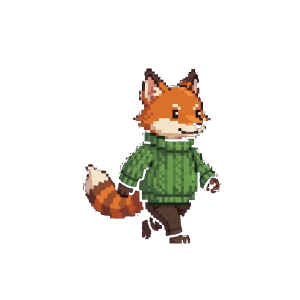
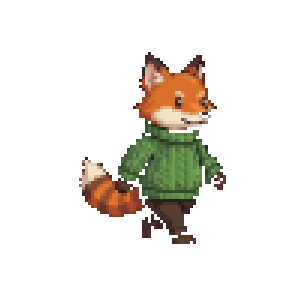
Fix fox walk cycle: match idle's size/detail + kill first-play flicker
The walk frames read smaller and blurrier than idle.png (union-bbox
height match undersold the lean walking pose, and plain box-average
resampling smeared the source video's pixel art), and the first cycle
flickered because each gait frame's Image source swap forced an async
decode.

- Regenerate walk_0..9.png on a crisp art grid: alpha-weighted box
  average down to 66 art px with a hard >=45% alpha snap, then integer
  x3 nearest upscale. Fox now stands 198px tall (matching idle's visual
  mass, ~9% up from the old bbox match) with hard pixel edges that keep
  the sweater knit, tail rings, and face detail. Frames also shrink
  ~4x on disk (opaque snapped alpha compresses well).
- AnimalSprite: pre-mount all walk frames as an opacity-switched stack
  (idle layered beneath) instead of swapping one Image's source per
  frame, so every frame is decoded before the first stroll. The stack
  is skipped entirely when the walk can never play (robed phases,
  reduced motion, low-tier devices). Layers use explicit 100% sizing,
  never inset-only (Fabric collapses inset-sized Images to intrinsic
  size).
- CLAUDE.md: document the crisp-resample pipeline and the pre-mounted
  stack rule.

Claude-Session: https://claude.ai/code/session_01W5bk4HFqQtbrE3HweUntwD

Changed region(s): [[0.27, 0.18, 0.75, 0.84]]

diff --git a/mobile/src/components/home/AnimalSprite.tsx b/mobile/src/components/home/AnimalSprite.tsx
@@ -692,40 +692,62 @@ export const AnimalSprite: React.FC<AnimalSpriteProps> = ({
           {/* Animal body */}
           {CHARACTER_SPRITES[animal.type] && !spriteLoadFailed ? (
             (() => {
-              const spriteSource =
-                currentPhase >= 4 && CHARACTER_SPRITES[animal.type]?.robed
-                  ? CHARACTER_SPRITES[animal.type]!.robed!
-                  : walkActive && walkFrames
-                    ? walkFrames[walkFrame % walkFrames.length]
-                    : CHARACTER_SPRITES[animal.type]!.idle;
+              const sprites = CHARACTER_SPRITES[animal.type]!;
+              const staticSource =
+                currentPhase >= 4 && sprites.robed ? sprites.robed : sprites.idle;
               const dreadTint = getSpriteDreadTint(currentPhase);
-              // Base sprite renders with its explicit size (the known-good path).
-              const baseSprite = (
-                <Image
-                  source={spriteSource}
-                  style={styles.spriteImage}
-                  resizeMode="contain"
-                  onError={() => setSpriteLoadFailed(true)}
-                />
+              // Walk frames stay MOUNTED (opacity-switched) whenever they
+              // could play — swapping one Image's `source` mid-gait forces an
+              // async decode per frame the first time through the cycle,
+              // which reads as flicker. Mounting decodes everything up front.
+              // Skipped when the walk can never run (robed phases, reduced
+              // motion, low-tier devices) so those paths pay no decode cost.
+              const mountWalkStack = Boolean(
+                walkFrames &&
+                walkFrames.length > 0 &&
+                currentPhase < 4 &&
+                !getSettingsSync().reducedMotion &&
+                !shouldSimplifyAnimations()
               );
-              // Phases 0 and 4+ have no dread wash — render the bare sprite,
-              // exactly as before the dread-ramp refactor.
-              if (!dreadTint) return baseSprite;
-              // Phases 1-3: layer a tinted copy on top (tintColor honours the
-              // sprite's alpha, so only the animal shape cools, not the box).
-              return (
-                <View style={styles.spriteImage}>
-                  {baseSprite}
+              // Phases 1-3 layer a tinted copy on top of each layer (tintColor
+              // honours the sprite's alpha, so only the animal shape cools).
+              const renderTint = (source: ImageSourcePropType) =>
+                dreadTint ? (
                   <Image
-                    source={spriteSource}
+                    source={source}
                     style={[
-                      StyleSheet.absoluteFill,
+                      styles.spriteLayer,
                       { tintColor: dreadTint.color, opacity: dreadTint.opacity },
                     ]}
                     resizeMode="contain"
                     importantForAccessibility="no"
                     accessibilityElementsHidden
                   />
+                ) : null;
+              return (
+                <View style={styles.spriteImage}>
+                  {/* Idle/robed base — hidden (not unmounted) while walking */}
+                  <View style={[styles.spriteLayer, { opacity: walkActive ? 0 : 1 }]}>
+                    <Image
+                      source={staticSource}
+                      style={styles.spriteFill}
+                      resizeMode="contain"
+                      onError={() => setSpriteLoadFailed(true)}
+                    />
+                    {renderTint(staticSource)}
+                  </View>
+                  {mountWalkStack && walkFrames!.map((frameSource, idx) => (
+                    <View
+                      key={idx}
+                      style={[
+                        styles.spriteLayer,
+                        { opacity: walkActive && idx === walkFrame % walkFrames!.length ? 1 : 0 },
+                      ]}
+                    >
+                      <Image source={frameSource} style={styles.spriteFill} resizeMode="contain" />
+                      {renderTint(frameSource)}
+                    </View>
+                  ))}
                 </View>
               );
             })()
@@ -841,6 +863,19 @@ const styles = StyleSheet.create({
   spriteImage: {
     width: 90,
     height: 90,
+  },
+  // Stacked sprite layers: absolute + EXPLICIT '100%' size (never inset-only —
+  // on Fabric an Image sized only by insets collapses to its intrinsic size).
+  spriteLayer: {
+    position: 'absolute',
+    top: 0,
+    left: 0,
+    width: '100%',
+    height: '100%',
+  },
+  spriteFill: {
+    width: '100%',
+    height: '100%',
   },
   notificationBadge: {
     position: 'absolute',

diff --git a/CLAUDE.md b/CLAUDE.md
@@ -578,7 +578,7 @@ Client-side sync layer with a pluggable `CloudProvider` interface. A live Supaba
 ### Current State
 - **Store assets are real**: 1024×1024 icon.png, adaptive-icon.png, splash.png, and the Android notification-icon.png are generated by `scripts/tools/generateAppIcons.mjs` / `generateNotificationIcon.mjs` (`npm run generate:assets`)
 - **SFX pack**: 14 WAV chimes in `assets/sounds/`, generated by `scripts/tools/generateSounds.mjs`
-- **All 10 character sprites** wired up: idle.png, talk.png, robed.png per animal. The **fox also has a 10-frame walk cycle** (`fox/walk_0..9.png`, 300×300, framing matched to idle.png so there is no size/baseline jump): `AnimalSprite` plays it at 125ms/frame while the animal wanders its room (`walkActive`), suppressing the glide-bounce (the gait carries its own bob); disabled at Phase 4+ (robed figures don't stroll), under reduced motion, and on low-tier devices. Frames were extracted from a player-provided walk video (`assets/raw/fox_walk_source.mp4`: one 30-frame gait at 24fps sampled every 3rd frame, background flood-fill keyed from the borders so the dark outlines survive, one uniform crop+scale across all frames to preserve the bob). To give another animal a walk, add `walk: [...]` to its `CHARACTER_SPRITES` entry — everything else is generic. **Intentional design — not a defect:** `axolotl/talk.png` is byte-identical to `axolotl/idle.png` *on purpose* — Axel (the axolotl) wears a scuba mask, so he can't visibly talk; his mouth never moves, hence no distinct talk frame. Do NOT "fix" this by generating a separate talk sprite. The reduced-motion-safe talk transform on the dialogue portrait (HomeScreen `dialogueSpriteTalking`) still gives Axel subtle motion while speaking, consistent with every other animal.
+- **All 10 character sprites** wired up: idle.png, talk.png, robed.png per animal. The **fox also has a 10-frame walk cycle** (`fox/walk_0..9.png`, 300×300, framing matched to idle.png so there is no size/baseline jump): `AnimalSprite` plays it at 125ms/frame while the animal wanders its room (`walkActive`), suppressing the glide-bounce (the gait carries its own bob); disabled at Phase 4+ (robed figures don't stroll), under reduced motion, and on low-tier devices. **Rendering:** the walk frames are PRE-MOUNTED as an opacity-switched stack (all frames mounted whenever the walk could play, active frame opacity 1, idle layered beneath) — never swap one Image's `source` per gait frame: the per-frame async decode makes the first cycle visibly flicker. Frames were extracted from a player-provided walk video (`assets/raw/fox_walk_source.mp4`: one 30-frame gait at 24fps sampled every 3rd frame, background flood-fill keyed from the borders so the dark outlines survive, one shared union-bbox transform across all frames to preserve the bob) and resampled on a **crisp art grid** (alpha-weighted box average down to 66 art px with a hard ≥45% alpha snap, then integer ×3 nearest upscale → fox 198px tall, matching idle's visual mass; plain box-average to the bbox height read blurry and ~9% too small next to the hand-drawn idle). To give another animal a walk, add `walk: [...]` to its `CHARACTER_SPRITES` entry — everything else is generic. **Intentional design — not a defect:** `axolotl/talk.png` is byte-identical to `axolotl/idle.png` *on purpose* — Axel (the axolotl) wears a scuba mask, so he can't visibly talk; his mouth never moves, hence no distinct talk frame. Do NOT "fix" this by generating a separate talk sprite. The reduced-motion-safe talk transform on the dialogue portrait (HomeScreen `dialogueSpriteTalking`) still gives Axel subtle motion while speaking, consistent with every other animal.
 - **All 10 room backgrounds** wired up in RoomView.tsx
 - **Environment**: sky_day/afternoon/dusk/storm/shadow.png (phase-aware: 0=day, 1=afternoon, 2=dusk, 3=storm, 4+=shadow — see `HouseWorld.tsx`), pitt_day/dusk/night.png (pit backgrounds). Oversized backgrounds were downscaled for mobile via `scripts/tools/downscaleImages.mjs`; skies are 941×1972 (bottom 300 rows = mirrored meadow extension for the house-below-the-river seat — see Home Background Colors)
 - **World art (wired into HouseWorld)**: `roof.png` (792×283, chimney + attic window baked in; smoke puffs animate above the chimney at ~25% from the left), `foundation_0..4.png` (**one hand-lit foundation per phase** — day green → dusk dry → night blue — 792×120, stone courses with grass tufts + a center dirt path gap baked into each base; all normalized to one box size so the house never jumps between phases; selected by `FOUNDATION_IMGS[min(phase,4)]`, phase 5 reuses the shadow foundation like the sky), `wall.png` (muted timber, a pre-tiled 256×1280 strip drawn `resizeMode="cover"` behind the rooms — `repeat` renders nothing on Fabric; the tall strip cover-overflows the body height and Fabric does NOT clip it, so the Image sits inside a `wallBackdrop` View with `overflow:hidden` to confine the planks to the house body instead of bleeding below the foundation onto the pit. The wall Image (and the `wall_edge_shadow` overlays) use explicit `width/height: '100%'` NOT inset-only styles: on Fabric an `<Image>` sized only by `left/right/top/bottom:0` collapses to its INTRINSIC size (256px) anchored top-left, which left the right ~26px of the body showing the flat fallback color. The plank source is desaturated/darkened so it reads as natural wood, not the old garish orange, and the `houseBody` fallback color matches; the body has NO flat frame border or top trim (they read as a cheap outline against the painterly art), the body is narrower than the foundation (`HOUSE_BODY_WIDTH`) so the thin timber walls sit WITHIN the stone base instead of overhanging it, and `wall_edge_shadow.png` (a soft dark->transparent gradient, drawn on the left and mirrored on the right) shades the side edges so the corners recede into shadow instead of a hard line), and the tappable `pit_entrance.png` (460×496, stone-rimmed glowing well + a stone path that leads up under the foundation via `PIT_MARGIN_TOP`, aligned to the foundation's dirt gap) are **AI-generated detailed pixel art matching the room interiors** — sources live in `assets/raw/` (phase_1..5 → game phases 0..4; JPEG uploads are re-encoded to PNG) and are processed (background key → crop → downscale; the pit drops the top 45% of its tapered path tail; the foundations are normalized to 792×120) by `scripts/tools/processRawWorldArt.mjs`; their aspect constants live in HouseWorld.tsx and the seat math in `skyGeometry.test.ts` (update both if raws change). **Phase lighting**: `PHASE_HOUSE_TINT` washes the house into each sky's ambient light — a same-source `tintColor` overlay Image follows the roof/pit silhouettes (the foundation is already per-phase art, so it carries no tint overlay), and two body scrims tint the wall/frame at full exterior strength while tinting the rooms at ~half (so lit interiors keep glowing against the darkened shell); the pit's tint is capped so the well's teal glow survives the night phases. **Grounding**: the grass is part of each foundation art, and `house_shadow.png` (a soft contact band, `tintColor`+opacity from `CONTACT_SHADOW`) darkens the base — phase-aware (green meadow → sunset earth → night blues, softening as the sun leaves). `house_shadow.png` is generated by `processRawWorldArt.mjs` (procedural, no raw source). `cloud_1/2.png` remain procedural (`scripts/tools/generatePixelWorld.mjs`, now clouds/tree/ground only). `ground.png`/`tree.png` exist but are intentionally NOT rendered: the sky backgrounds are full landscapes with their own grass and trees. The soft `shadow_figure.png` (the entity) is deliberately NOT pixel art — it should read as otherworldly against the pixel world (`generateWorldArt.mjs`)
